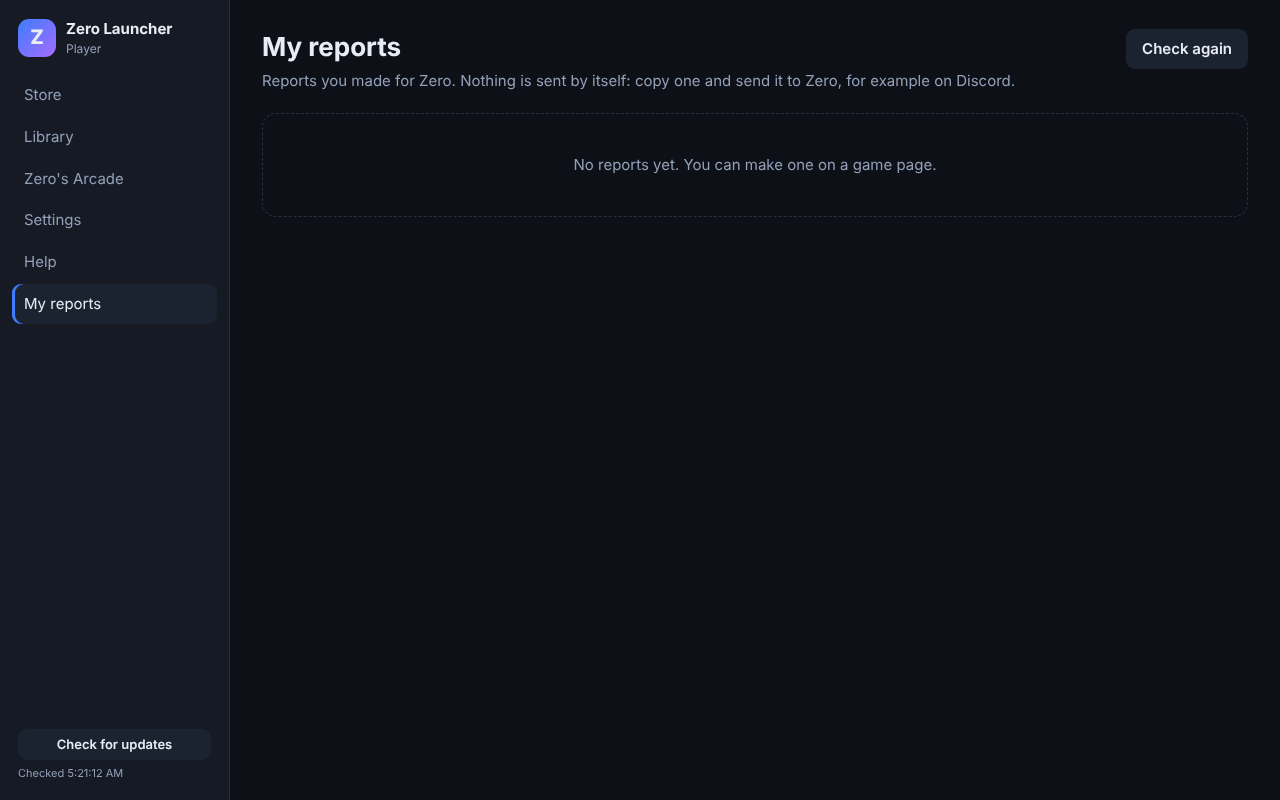
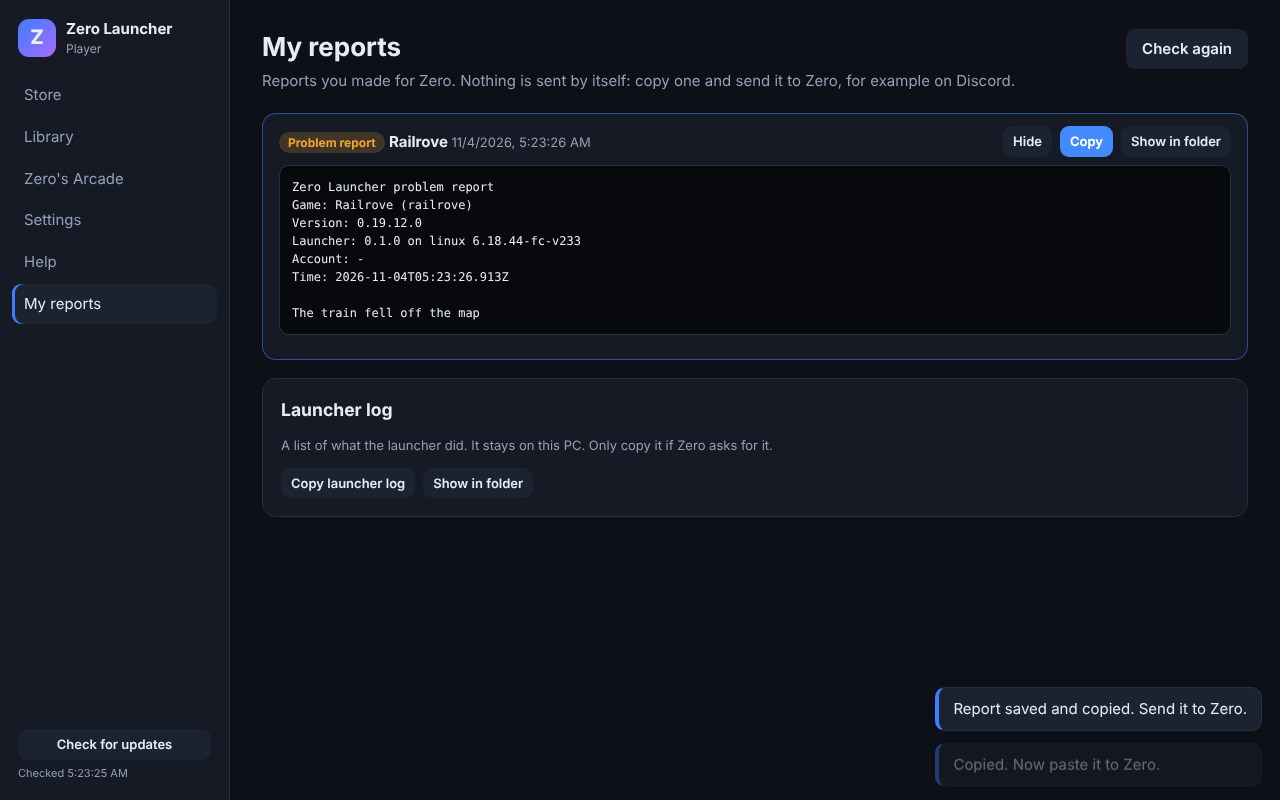
Launcher log: one short line per event on this PC (start, game list, installs, refused calls, crashes); secrets blanked; Copy launcher log on My reports
Claude-Session: https://claude.ai/code/session_012v2kVxJq26rC4fH5fL1FCU

diff --git a/app/main.js b/app/main.js
@@ -29,6 +29,7 @@ const keybackup = require('../core/keybackup');
 const projects = require('../core/projects');
 const playtime = require('../core/playtime');
 const feedback = require('../core/feedback');
+const { Log } = require('../core/log');
 const CHECK_ITEMS = ['starts', 'sound', 'tested', 'notes', 'picture'];
 const CHECK_LABELS = { starts: 'The game starts', sound: 'No sound bugs', tested: 'Tested by a tester', notes: "What's new is written", picture: 'Picture is set' };
 let stats = null;
@@ -58,6 +59,8 @@ function settings() { return { ...DEFAULTS, ...readJson(file('settings.json'), {
 function developer() { return readJson(file('developer.json')); }
 function friendHost() { return readJson(file('friend.json')); }
 function account() { return readJson(file('account.json')); }
+let _log = null; // launcher log (core/log.js), on this PC only
+const log = () => _log || (_log = new Log(path.join(DATA(), 'logs')));
 const feedbackStore = () => new feedback.FeedbackStore(file('feedback.json'));
 function publicKey() {
   const s = settings();
@@ -217,7 +220,7 @@ async function refresh() {
   catalogueError = !r.error ? null
     : r.error.code === 'BAD_SIGNATURE' ? 'The game list failed the safety check, so it was not used.'
     : r.offline ? null : 'Could not load the game list. Are you online?';
-  if (r.error) console.error('[catalogue]', r.error.message);
+  if (r.error) log().warn(`game list: ${r.error.message}${r.offline ? ' (offline, using the saved list)' : ''}`);
   // Failed? Try again by itself after 1 min, then 5 min, then 30 min.
   clearTimeout(retryTimer);
   if (r.error) { failures++; retryTimer = setTimeout(refresh, retryDelay(failures)); } else failures = 0;
@@ -291,6 +294,7 @@ async function runInstall(gameId, job) {
       if (Date.now() - last > 250 || p.stage !== 'download') { last = Date.now(); send('state', state()); }
     },
   });
+  log().info(`${before ? 'updated' : 'installed'} ${gameId} ${rel.version}`);
   if (before && before.version !== rel.version) notify(tr('Update done'), tr('{name} is updated to version {v}.', { name: g.name || g.id, v: rel.version }));
 }
 
@@ -389,6 +393,9 @@ const api = {
   },
   reportText: (name) => fs.readFileSync(reportFile(name), 'utf8').slice(0, 200000),
   reportShow: (name) => { shell.showItemInFolder(reportFile(name)); return true; },
+  // ---- launcher log (on this PC only): copy it for Zero, or show the file ----
+  logCopy: () => { const text = log().tail(); require('electron').clipboard.writeText(text); return text.split('\n').filter(Boolean).length; },
+  logShow: () => { log().info('log opened'); shell.showItemInFolder(log().file); return true; },
   uninstall: async (id) => {
     const r = await dialog.showMessageBox(win, { type: 'question', buttons: ['Uninstall', 'Cancel'], defaultId: 1, message: 'Uninstall this game?' });
     if (r.response !== 0) return false;
@@ -403,6 +410,7 @@ const api = {
     const isTest = !!(rel && rel.state === 'testing');
     installer.play(id, (code, err, ms) => {
       try { playtime.record(file('playtime.json'), id, err ? 0 : ms, { test: isTest }); } catch {}
+      if (crash.isCrash(code, ms, err)) log().warn(`game stopped early: ${id} ${version || ''} code ${err ? err.code || err.message : code}`);
       if (crash.isCrash(code, ms, err)) crashes.set(id, { code: err ? String(err.code || err.message) : code, version, at: new Date().toISOString() });
       send('state', state());
       if (catalogue && settings().autoUpdate) autoUpdate();
@@ -715,6 +723,7 @@ const SUB_ID = /^[a-z0-9][a-z0-9-]{1,40}--[a-z0-9][a-z0-9-]{1,40}--v?[0-9A-Za-z.
 const pid = (x) => V.match(x, projects.ID_RE, 'project id');
 const absPath = (x, what = 'folder') => { if (typeof x !== 'string' || x.length > 1000 || !path.isAbsolute(x) || x.includes('\0')) throw new Error('Bad input: ' + what); return x; };
 const CHECKS = {
+  logCopy: none, logShow: none,
   reportsList: none, reportText: ([n, ...rest]) => { V.str(n, 'report', 80, { allowEmpty: false }); noMore(rest); }, reportShow: ([n, ...rest]) => { V.str(n, 'report', 80, { allowEmpty: false }); noMore(rest); },
   devProjects: none, devStatusReport: none,
   devProjectSave: ([id, patch, ...rest]) => {
@@ -798,12 +807,14 @@ const CHECKS = {
 
 for (const [name, fn] of Object.entries(api)) {
   ipcMain.handle('zl:' + name, async (e, ...args) => {
-    if (!win || e.senderFrame !== win.webContents.mainFrame) throw new Error('Not allowed');
-    if (name.startsWith('dev') && !developer()) throw new Error('Developer only');
-    if (name.startsWith('friend') && !friendHost()) throw new Error('Friend host only');
-    if (!CHECKS[name]) throw new Error('Not allowed');
-    CHECKS[name](args);
-    return fn(...args);
+    try {
+      if (!win || e.senderFrame !== win.webContents.mainFrame) throw new Error('Not allowed');
+      if (name.startsWith('dev') && !developer()) throw new Error('Developer only');
+      if (name.startsWith('friend') && !friendHost()) throw new Error('Friend host only');
+      if (!CHECKS[name]) throw new Error('Not allowed');
+      CHECKS[name](args);
+      return await fn(...args);
+    } catch (err) { log().warn(`${name}: ${err && err.message}`); throw err; } // the call name + why, never the input itself
   });
 }
 
@@ -853,11 +864,14 @@ else {
     const { session } = require('electron');
     for (const part of ['persist:arcade', 'persist:chatgpt']) lockDownSession(session.fromPartition(part));
     const s = settings();
+    log().info(`start ${app.getVersion()} on ${process.platform} ${require('os').release()} as ${viewer().role}`);
+    process.on('uncaughtExceptionMonitor', (err) => log().error(`crash: ${err && err.stack ? err.stack.split('\n').slice(0, 4).join(' | ') : err}`));
     installer = new Installer(s.installRoot || path.join(DATA(), 'library'));
     queue = new DownloadQueue(runInstall, () => send('state', state()));
     queue.onError = (id, e) => {
       const g = catalogue && catalogue.games.find((x) => x.id === id);
       const name = (g && g.name) || id;
+      log().error(`download ${id}: ${e.message}`);
       if (e.code === 'NO_SPACE') send('toast', { kind: 'error', name, text: 'Not enough free space. This game needs about {need} MB. You have {free} MB free.', vars: { need: Math.ceil(e.need / 1048576), free: Math.ceil(e.free / 1048576) } });
       else send('toast', { kind: 'error', name, text: e.message });
     };

diff --git a/core/log.js b/core/log.js
@@ -1,0 +1,45 @@
+'use strict';
+// The launcher log: one short line per event in logs/launcher.log, on this PC only. Nothing is sent anywhere.
+// When the file is bigger than 1 MB it moves to launcher.old.log (so at most ~2 MB on disk).
+// Secrets never go in: tokens and private keys are blanked before a line is written.
+const fs = require('fs');
+const path = require('path');
+
+const MAX = 1024 * 1024;
+const LINE = 500;
+const SECRET = [
+  /-----BEGIN [A-Z ]*PRIVATE KEY-----[\s\S]*?(-----END [A-Z ]*PRIVATE KEY-----|$)/g,
+  /\b(gh[pousr]_[A-Za-z0-9]{20,}|github_pat_[A-Za-z0-9_]{20,})\b/g,
+  /\b(token|password|secret|authorization)(["'\s:=]+)[^\s"',]+/gi,
+];
+
+function clean(msg) {
+  let s = msg instanceof Error ? msg.message : typeof msg === 'string' ? msg : JSON.stringify(msg);
+  s = String(s ?? '');
+  s = s.replace(SECRET[0], '[hidden key]').replace(SECRET[1], '[hidden]').replace(SECRET[2], '$1$2[hidden]');
+  return s.replace(/[\r\n\t]+/g, ' ').slice(0, LINE);
+}
+
+class Log {
+  constructor(dir, { max = MAX } = {}) { this.dir = dir; this.file = path.join(dir, 'launcher.log'); this.old = path.join(dir, 'launcher.old.log'); this.max = max; }
+  write(level, msg, now = new Date()) {
+    try {
+      fs.mkdirSync(this.dir, { recursive: true });
+      try { if (fs.statSync(this.file).size > this.max) fs.renameSync(this.file, this.old); } catch {}
+      fs.appendFileSync(this.file, `${now.toISOString()} ${level.toUpperCase().padEnd(5)} ${clean(msg)}\n`);
+    } catch {} // the log must never break the launcher
+  }
+  info(m) { this.write('info', m); }
+  warn(m) { this.write('warn', m); }
+  error(m) { this.write('error', m); }
+  // the last part of the log (old file first), for "Copy launcher log"
+  tail(bytes = 100000) {
+    const read = (f) => { try { return fs.readFileSync(f, 'utf8'); } catch { return ''; } };
+    const all = read(this.old) + read(this.file);
+    if (all.length <= bytes) return all;
+    const cut = all.slice(-bytes);
+    return cut.slice(cut.indexOf('\n') + 1);
+  }
+}
+
+module.exports = { Log, clean, MAX };

diff --git a/test/core.test.js b/test/core.test.js
@@ -953,3 +953,23 @@ test('tester feedback: code round trip, bad or sneaky codes skipped, no doubles,
   assert.equal(store.remove(at, 'SAM-4F2A-9C1B'), 1); assert.equal(store.all().length, 1);
   assert.equal(({}).admin, undefined);
 });
+
+test('launcher log: one line per event, secrets blanked, never more than about 2 MB', () => {
+  const { Log, clean } = require('../core/log');
+  const dir = tmp(); const log = new Log(dir, { max: 2000 });
+  log.info('start 1.0'); log.warn('two\nlines'); log.error(new Error('boom'));
+  const lines = fs.readFileSync(path.join(dir, 'launcher.log'), 'utf8').trim().split('\n');
+  assert.equal(lines.length, 3);
+  assert.match(lines[0], /^\d{4}-\d\d-\d\dT[\d:.]+Z INFO  start 1\.0$/); assert.match(lines[1], /WARN  two lines$/); assert.match(lines[2], /ERROR boom$/);
+  const pem = '-----BEGIN PRIVATE KEY-----\nMC4CAQAwBQYDK2VwBCIEIabc\n-----END PRIVATE KEY-----';
+  for (const s of [pem, 'push failed ghp_abcdefghijklmnopqrstuvwxyz0123', 'token=abc123secret', '{"password":"hunter2"}', 'github_pat_11ABCDEFGHIJKLMNOPQRSTUV_xyz']) {
+    assert.doesNotMatch(clean(s), /MC4CAQ|ghp_abc|abc123secret|hunter2|github_pat_11/, s);
+  }
+  assert.equal(clean('x'.repeat(9000)).length, 500);
+  for (let i = 0; i < 200; i++) log.info('line ' + i);
+  assert.ok(fs.existsSync(path.join(dir, 'launcher.old.log')), 'old file kept');
+  assert.ok(fs.statSync(path.join(dir, 'launcher.log')).size <= 2100);
+  assert.match(log.tail(), /line 199\n$/);
+  assert.ok(log.tail(300).length <= 300); assert.match(log.tail(300), /^\d{4}-/, 'starts at a whole line');
+  new Log(path.join(dir, 'launcher.log', 'nope')).info('x'); // a broken folder never throws
+});

diff --git a/app/renderer/app.js b/app/renderer/app.js
@@ -406,7 +406,12 @@ P.reports = () => {
           h('button', { class: 'ghost small', onclick: () => (openReport && openReport.name === r.name ? (openReport = null, render()) : show(r)) }, openReport && openReport.name === r.name ? t('Hide') : t('Show')),
           h('button', { class: 'btn small', onclick: async () => { await call('copy', await call('reportText', r.name)); toast(t('Copied. Now paste it to Zero.')); } }, t('Copy')),
           h('button', { class: 'ghost small', onclick: () => call('reportShow', r.name) }, t('Show in folder')))),
-      openReport && openReport.name === r.name ? h('pre', { class: 'log small report-text' }, openReport.text) : null))];
+      openReport && openReport.name === r.name ? h('pre', { class: 'log small report-text' }, openReport.text) : null)),
+    h('div', { class: 'panel launcher-log' }, h('h3', {}, t('Launcher log')),
+      h('p', { class: 'dim' }, t('A list of what the launcher did. It stays on this PC. Only copy it if Zero asks for it.')),
+      h('div', { class: 'row' },
+        h('button', { class: 'ghost small', onclick: async () => { const n = await call('logCopy'); toast(n ? t('Copied. Now paste it to Zero.') : t('The log is empty.')); } }, t('Copy launcher log')),
+        h('button', { class: 'ghost small', onclick: () => call('logShow') }, t('Show in folder'))))];
 };
 
 // ---- developer ----

diff --git a/test/e2e/morning.test.js b/test/e2e/morning.test.js
@@ -144,3 +144,25 @@ test('tester feedback: stars + one line -> code; Zero pastes it in Testers and s
     assert.deepEqual(errors, []);
   } finally { await close(app); }
 });
+
+test('launcher log: things are written down on this PC; Copy launcher log; no secrets, no input text', async () => {
+  const demo = makeDemo();
+  const { app, win, errors } = await launch(demo.user);
+  try {
+    await win.locator('.card').first().waitFor();
+    await tryCall(win, 'reportText', '../secret-words-here');
+    await tryCall(win, 'devProjects');
+    await goto(win, 'My reports');
+    const box = win.locator('.panel.launcher-log');
+    await box.locator('button', { hasText: 'Copy launcher log' }).click();
+    await win.locator('.toast', { hasText: 'Copied' }).waitFor();
+    const text = await app.evaluate(({ clipboard }) => clipboard.readText());
+    assert.match(text, /INFO  start .* as user/);
+    assert.match(text, /WARN  reportText: Bad input/);
+    assert.match(text, /WARN  devProjects: Developer only/);
+    assert.doesNotMatch(text, /secret-words-here/, 'what you typed is never written down');
+    assert.ok(fs.existsSync(path.join(demo.user, 'logs', 'launcher.log')));
+    await shot(win, 'player-launcher-log');
+    assert.deepEqual(errors, []);
+  } finally { await close(app); }
+});

diff --git a/app/renderer/strings.js b/app/renderer/strings.js
@@ -163,6 +163,10 @@
     '{n} of 5 stars': '{n} van 5 sterren',
     'One line: what was good or bad? (you can leave this empty)': 'Eén zin: wat was goed of slecht? (mag leeg blijven)',
     'Press a star first.': 'Druk eerst op een ster.',
+    'Launcher log': 'Logboek van de launcher',
+    'A list of what the launcher did. It stays on this PC. Only copy it if Zero asks for it.': 'Een lijst van wat de launcher deed. Het blijft op deze pc. Kopieer het alleen als Zero erom vraagt.',
+    'Copy launcher log': 'Logboek kopiëren',
+    'The log is empty.': 'Het logboek is leeg.',
     'Thank you! Feedback saved and copied. Send it to Zero.': 'Dank je! Feedback bewaard en gekopieerd. Stuur het naar Zero.',
     'Send feedback': 'Stuur feedback',
     '{name} closed with an error': '{name} is gestopt met een fout',
